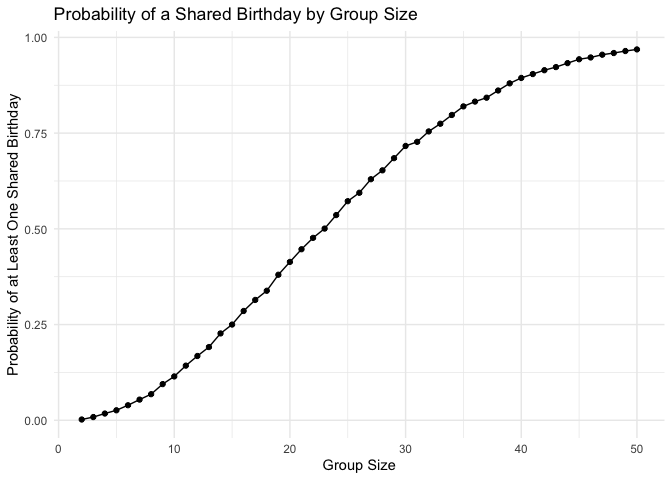
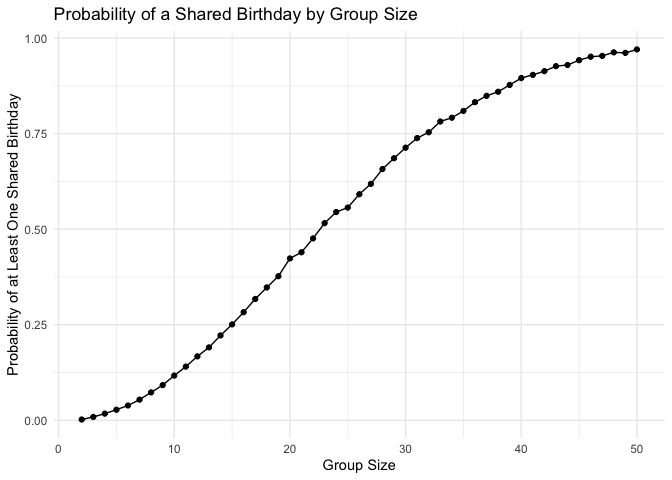
Complete power simulation analysis

diff --git a/p8105_hw5_rfh2133.md b/p8105_hw5_rfh2133.md
@@ -34,15 +34,15 @@ birthday_results
     ##    group_size probability
     ##         <int>       <dbl>
     ##  1          2      0.002 
-    ##  2          3      0.0084
-    ##  3          4      0.0176
-    ##  4          5      0.0261
-    ##  5          6      0.0393
+    ##  2          3      0.0087
+    ##  3          4      0.0174
+    ##  4          5      0.0276
+    ##  5          6      0.0387
     ##  6          7      0.054 
-    ##  7          8      0.0682
-    ##  8          9      0.0945
-    ##  9         10      0.114 
-    ## 10         11      0.143 
+    ##  7          8      0.073 
+    ##  8          9      0.092 
+    ##  9         10      0.117 
+    ## 10         11      0.140 
     ## # ℹ 39 more rows
 
 ``` r
@@ -146,3 +146,167 @@ Observations for participants in the experimental group generally
 increase across the study period, while observations in the control
 group remain relatively stable. This suggests that the experimental
 condition may be associated with increasing outcome values over time.
+
+## Problem 3
+
+``` r
+sim_ttest = function(mu) {
+  
+  sample_data = rnorm(
+    n = 30,
+    mean = mu,
+    sd = 5
+  )
+  
+  t.test(sample_data, mu = 0) |>
+    broom::tidy() |>
+    select(estimate, p.value)
+}
+```
+
+``` r
+set.seed(2026)
+
+simulation_results =
+  expand_grid(
+    mu = 0:6,
+    iteration = 1:5000
+  ) |>
+  mutate(
+    results = map(mu, sim_ttest)
+  ) |>
+  unnest(results)
+
+simulation_results
+```
+
+    ## # A tibble: 35,000 × 4
+    ##       mu iteration estimate p.value
+    ##    <int>     <int>    <dbl>   <dbl>
+    ##  1     0         1   -0.362   0.720
+    ##  2     0         2   -0.739   0.305
+    ##  3     0         3    0.171   0.865
+    ##  4     0         4   -1.14    0.265
+    ##  5     0         5    1.49    0.114
+    ##  6     0         6    0.150   0.831
+    ##  7     0         7    0.808   0.384
+    ##  8     0         8    0.534   0.579
+    ##  9     0         9    0.677   0.336
+    ## 10     0        10    0.494   0.503
+    ## # ℹ 34,990 more rows
+
+``` r
+power_results =
+  simulation_results |>
+  group_by(mu) |>
+  summarize(
+    power = mean(p.value < 0.05)
+  )
+
+power_results
+```
+
+    ## # A tibble: 7 × 2
+    ##      mu  power
+    ##   <int>  <dbl>
+    ## 1     0 0.0466
+    ## 2     1 0.189 
+    ## 3     2 0.560 
+    ## 4     3 0.889 
+    ## 5     4 0.988 
+    ## 6     5 1.000 
+    ## 7     6 1.000
+
+``` r
+power_results |>
+  ggplot(aes(x = mu, y = power)) +
+  geom_line() +
+  geom_point() +
+  labs(
+    title = "Power of the One-Sample t-Test",
+    x = "True Mean",
+    y = "Power"
+  ) +
+  theme_minimal()
+```
+
+![](p8105_hw5_rfh2133_files/figure-gfm/power_plot-1.png)<!-- -->
+
+As the true mean increases farther from the null value of 0, the power
+of the test increases. When the true mean is close to 0, the test is
+less likely to reject the null hypothesis, while larger effect sizes are
+detected much more frequently.
+
+``` r
+mean_estimates =
+  simulation_results |>
+  group_by(mu) |>
+  summarize(
+    average_estimate = mean(estimate),
+    average_estimate_rejected = mean(estimate[p.value < 0.05]),
+    .groups = "drop"
+  )
+
+mean_estimates
+```
+
+    ## # A tibble: 7 × 3
+    ##      mu average_estimate average_estimate_rejected
+    ##   <int>            <dbl>                     <dbl>
+    ## 1     0           0.0110                    0.0883
+    ## 2     1           1.02                      2.26  
+    ## 3     2           1.97                      2.60  
+    ## 4     3           3.00                      3.19  
+    ## 5     4           4.01                      4.04  
+    ## 6     5           4.99                      4.99  
+    ## 7     6           6.00                      6.00
+
+``` r
+mean_estimates |>
+  pivot_longer(
+    cols = c(average_estimate, average_estimate_rejected),
+    names_to = "estimate_type",
+    values_to = "mean_estimate"
+  ) |>
+  mutate(
+    estimate_type = recode(
+      estimate_type,
+      average_estimate = "All Samples",
+      average_estimate_rejected = "Rejected Null Only"
+    )
+  ) |>
+  ggplot(
+    aes(
+      x = mu,
+      y = mean_estimate,
+      color = estimate_type
+    )
+  ) +
+  geom_line() +
+  geom_point() +
+  geom_abline(
+    slope = 1,
+    intercept = 0,
+    linetype = "dashed"
+  ) +
+  labs(
+    title = "Average Estimated Mean by True Mean",
+    x = "True Mean",
+    y = "Average Estimated Mean",
+    color = "Samples Included"
+  ) +
+  theme_minimal()
+```
+
+![](p8105_hw5_rfh2133_files/figure-gfm/mean_estimate_plot-1.png)<!-- -->
+
+Across all simulated samples, the average estimated mean is
+approximately equal to the true mean, which is consistent with the
+sample mean being an unbiased estimator. However, among samples in which
+the null hypothesis is rejected, the average estimated mean can differ
+from the true mean, particularly when the true effect is small and power
+is low. When only statistically significant results are selected,
+samples with estimates farther from the null value are more likely to be
+included. As the true mean increases and power approaches 1, nearly all
+samples reject the null hypothesis, so the average estimate among
+rejected tests becomes much closer to the true mean.
